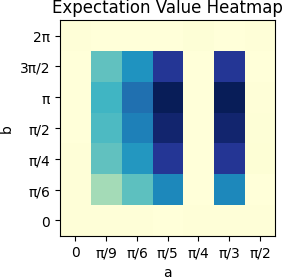
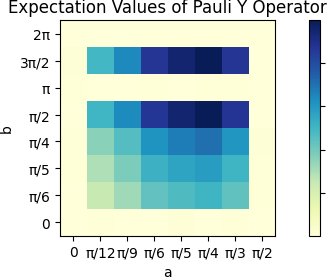
Fixed plot of single-time-step circuit simulation

diff --git a/q_memristor/circuits/memristor_1t.py b/q_memristor/circuits/memristor_1t.py
@@ -1,5 +1,6 @@
 from qiskit import QuantumCircuit, QuantumRegister, ClassicalRegister
 from qiskit.circuit.library import RYGate
+import seaborn as sns
 
 from q_memristor.circuits.csv_generator import csv_gen
 from q_memristor.circuits.simulator import IBMQSimulator
@@ -31,13 +32,13 @@ a0 = np.pi / 4
 b0 = np.pi / 5
 # a_states = [0, np.pi / 6, np.pi / 4, np.pi / 3, np.pi / 2]
 # b_states = [0, np.pi / 2, np.pi, (3 * np.pi) / 2, 2 * np.pi]
-a_states = [0, np.pi / 9, np.pi / 6, np.pi / 5, np.pi / 4, np.pi / 3, np.pi / 2]
-b_states = [0, np.pi / 6, np.pi / 4, np.pi / 2, np.pi, (3 * np.pi) / 2, 2 * np.pi]
+a_states = [0, np.pi / 12, np.pi / 9, np.pi / 6, np.pi / 5, np.pi / 4, np.pi / 3, np.pi / 2]
+b_states = [0, np.pi / 6, np.pi / 5, np.pi / 4, np.pi / 2, np.pi, (3 * np.pi) / 2, 2 * np.pi]
 
 # a_labels = ['0', '\u03C0/6', '\u03C0/4', '\u03C0/3', '\u03C0/2']
 # b_labels = ['0', '\u03C0/2', '\u03C0', '3\u03C0/2', '2\u03C0']
-a_labels = ['0', '\u03C0/9', '\u03C0/6', '\u03C0/5', '\u03C0/4', '\u03C0/3', '\u03C0/2']
-b_labels = ['0', '\u03C0/6', '\u03C0/4', '\u03C0/2', '\u03C0', '3\u03C0/2', '2\u03C0']
+a_labels = ['0', '\u03C0/12', '\u03C0/9', '\u03C0/6', '\u03C0/5', '\u03C0/4', '\u03C0/3', '\u03C0/2']
+b_labels = ['0', '\u03C0/6', '\u03C0/5', '\u03C0/4', '\u03C0/2', '\u03C0', '3\u03C0/2', '2\u03C0']
 
 # print(a_labels)
 # print(b_labels)
@@ -154,15 +155,20 @@ if __name__ == '__main__':
     csvGen = csv_gen('data/data_mem_1t.csv')
     csvGen.write_data(labels, V_arr, I_arr, exp_values_arr)
 
-    # Plot data in heatmap
-    V_arr = V_arr.reshape(a_mesh.shape)
-    I_arr = I_arr.reshape(a_mesh.shape)
-    exp_values_arr = exp_values_arr.reshape(a_mesh.shape)
+    V_arr = V_arr.reshape(b_mesh.shape)
+    V_arr = np.transpose(V_arr)
+    I_arr = I_arr.reshape(b_mesh.shape)
+    I_arr = np.transpose(I_arr)
+    exp_values_arr = exp_values_arr.reshape(b_mesh.shape)
+    exp_values_arr = np.transpose(exp_values_arr)
+
+    # Plot the heatmap using seaborn
+    # sns.heatmap(V_arr, cmap='coolwarm', annot=True, fmt=".2f")
 
     fig, axes = plt.subplots(3, 1, figsize=(7, 9))
 
     axes[0].imshow(V_arr, cmap='YlGnBu', origin='lower')
-    axes[0].set_title('Voltage Heatmap')
+    axes[0].set_title('Voltage <V>')
     axes[0].set_xlabel('a')
     axes[0].set_ylabel('b')
     axes[0].set_xticks(range(len(a_states)))
@@ -173,7 +179,7 @@ if __name__ == '__main__':
     axes[0].figure.colorbar(axes[0].images[0], ax=axes[0])
 
     axes[1].imshow(I_arr, cmap='YlGnBu', origin='lower')
-    axes[1].set_title('Current Heatmap')
+    axes[1].set_title('Current <I>')
     axes[1].set_xlabel('a')
     axes[1].set_ylabel('b')
     axes[1].set_xticks(range(len(a_states)))
@@ -184,7 +190,7 @@ if __name__ == '__main__':
     axes[1].figure.colorbar(axes[1].images[0], ax=axes[1])
 
     axes[2].imshow(exp_values_arr, cmap='YlGnBu', origin='lower')
-    axes[2].set_title('Expectation Value Heatmap')
+    axes[2].set_title('Expectation Values of Pauli Y Operator')
     axes[2].set_xlabel('a')
     axes[2].set_ylabel('b')
     axes[2].set_xticks(range(len(a_states)))

diff --git a/q_memristor/numerical/mem_dynamics.py b/q_memristor/numerical/mem_dynamics.py
@@ -7,7 +7,10 @@ import numpy as np
     Simulation of Generalized Quantum Memristive Dynamics for Sinusoidal Time Dependent Input
 
     Author: Chiara Paglioni
-    Link to Article: https://link.aps.org/doi/10.1103/PhysRevApplied.18.024082  
+    Link to Articles: 
+        - https://link.aps.org/doi/10.1103/PhysRevApplied.18.024082 
+        - https://doi.org/10.1038/srep42044
+     
 """
 
 
@@ -25,7 +28,7 @@ def f(v0, gamma_t, ts):
 if __name__ == '__main__':
     # Time-steps
     eps = 0.1
-    tmax = 10.1
+    tmax = 15.1
     t = np.arange(0, tmax, eps)
 
     # Simulation parameters
@@ -35,6 +38,9 @@ if __name__ == '__main__':
     h = 1
     w = 1
     y0 = 0.2
+
+    # Update of V0 is not based on dynamic values of gamma
+    dynamic = True
 
     mem = memristor(y0, w, h, m, a, b)
 
@@ -55,14 +61,21 @@ if __name__ == '__main__':
     t_plt = time_plot.Tplot()
 
     # V = sinusoidal time dependence
-    # Hysterisis is constant because of V0 howeverV[0] should decrease in time
+    # Hysterisis is constant because of V0 however V[0] should decrease in time
     # function of gamma and t to make V[0] decrease such that it is smaller than the previous V[0]
     for i in range(1, len(t)):
+        v_val = 0
+
         # angle = np.arccos(np.exp(mem.k1(t[i])))
         # v_val = amplitude * np.sin(w * t[i] + angle)
-        # v_val = V[0]*np.sin(w*t[i])
         # v_val = f(V[0], y0, t[i]) * np.sin(w * t[i])
-        v_val = f(V[0], mem.gamma(t[i]), t[i]) * np.sin(w * t[i])
+        # v_val = f(V[0], mem.gamma(t[i]), t[i]) * np.sin(w * t[i])
+
+        if dynamic:
+            v_val = f(V[0], y0, t[i]) * np.sin(w * t[i])
+        else:
+            v_val = V[0] * np.sin(w*t[i])
+
         i_val = mem.gamma(t[i]) * v_val
 
         V.append(v_val)

diff --git a/q_memristor/plots/iv_plot.py b/q_memristor/plots/iv_plot.py
@@ -10,10 +10,12 @@ import matplotlib.pyplot as plt
 class IVplot:
     def __init__(self, v0, i0):
         self.fig, self.ax = plt.subplots(figsize=(6, 5))
-        # self.ax.set_xlim(-0.4, 0.2)
-        # self.ax.set_ylim(-0.1, 0.1)
-        self.ax.set_xlim(-0.1, 0.1)
-        self.ax.set_ylim(-0.1, 0.1)
+        # Dynamic:
+        self.ax.set_xlim(-1.5, 1.5)
+        self.ax.set_ylim(-1.5, 1.5)
+        # Static:
+        # self.ax.set_xlim(-0.3, 0.3)
+        # self.ax.set_ylim(-0.2, 0.2)
         self.ax.axhline(0, color='black', linewidth=0.5)
         self.ax.axvline(0, color='black', linewidth=0.5)
         self.v0 = v0
@@ -25,7 +27,6 @@ class IVplot:
         self.ax.set_title('IV Plot')
 
     def update(self, v, i):
-        # TODO: fix normalization of V and I parameters
         # v = v / self.v0
         # i = -i / self.i0
         self.xs.append(v)
@@ -35,10 +36,12 @@ class IVplot:
         # self.ys = self.ys[-1:]
         # Uncomment the next line if we want to see only one dot at each update
         # self.ax.cla()
-        # self.ax.set_xlim(-0.4, 0.2)
-        # self.ax.set_ylim(-0.1, 0.1)
-        self.ax.set_xlim(-0.1, 0.1)
-        self.ax.set_ylim(-0.1, 0.1)
+        # Dynamic:
+        self.ax.set_xlim(-1.5, 1.5)
+        self.ax.set_ylim(-1.5, 1.5)
+        # Static:
+        # self.ax.set_xlim(-0.3, 0.3)
+        # self.ax.set_ylim(-0.2, 0.2)
         self.ax.axhline(0, color='black', linewidth=0.5)
         self.ax.axvline(0, color='black', linewidth=0.5)
         self.ax.plot(self.xs, self.ys, 'o', markersize=1)

diff --git a/q_memristor/numerical/num_memristor.py b/q_memristor/numerical/num_memristor.py
@@ -35,8 +35,8 @@ class memristor:
             Update of function k(t) based on timestep ts
             (Eq. 14 from "Quantum Memristors with Quantum Computers")
         """
-        integrand = lambda t_prime: self.gamma(t_prime)
-        result, _ = quad(integrand, 0, ts)
+        integ = lambda t_prime: self.gamma(t_prime)
+        result = quad(integ, 0, ts)[0]
         return -result / 2
 
     def k(self, ts, ts_next):
@@ -45,8 +45,8 @@ class memristor:
             - ts = lower bound of integral
             - ts_next = upper bound of integral
         """
-        integrand = lambda t_prime: self.gamma(t_prime)
-        result, _ = quad(integrand, ts, ts_next)
+        integ = lambda t_prime: self.gamma(t_prime)
+        result = quad(integ, ts, ts_next)[0]
         return -result / 2
 
     def oscillatory_k(self, t1, t2):

diff --git a/q_memristor/plots/time_plot.py b/q_memristor/plots/time_plot.py
@@ -34,7 +34,10 @@ class Tplot:
         self.ax.plot(self.xs, self.currents, 'ro-', markersize=1, label='Current')
 
         self.ax.set_xlim(0, t+0.1)
-        self.ax.set_ylim(-0.4, 0.1)
+        # Static:
+        # self.ax.set_ylim(-0.3, 0.3)
+        # Dynamic:
+        self.ax.set_ylim(-1.5, 1.5)
 
         if not self.labels_displayed:
             self.ax.legend()
